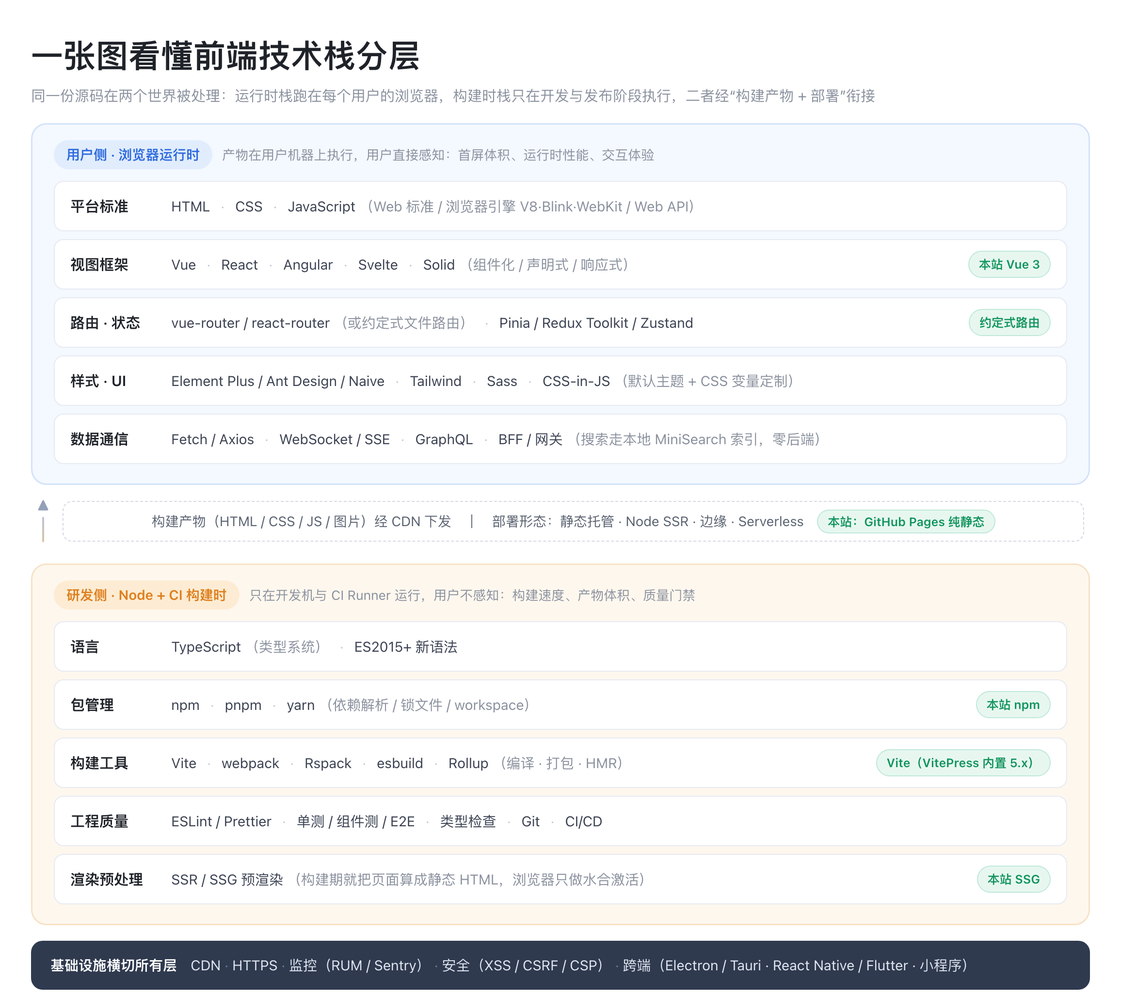
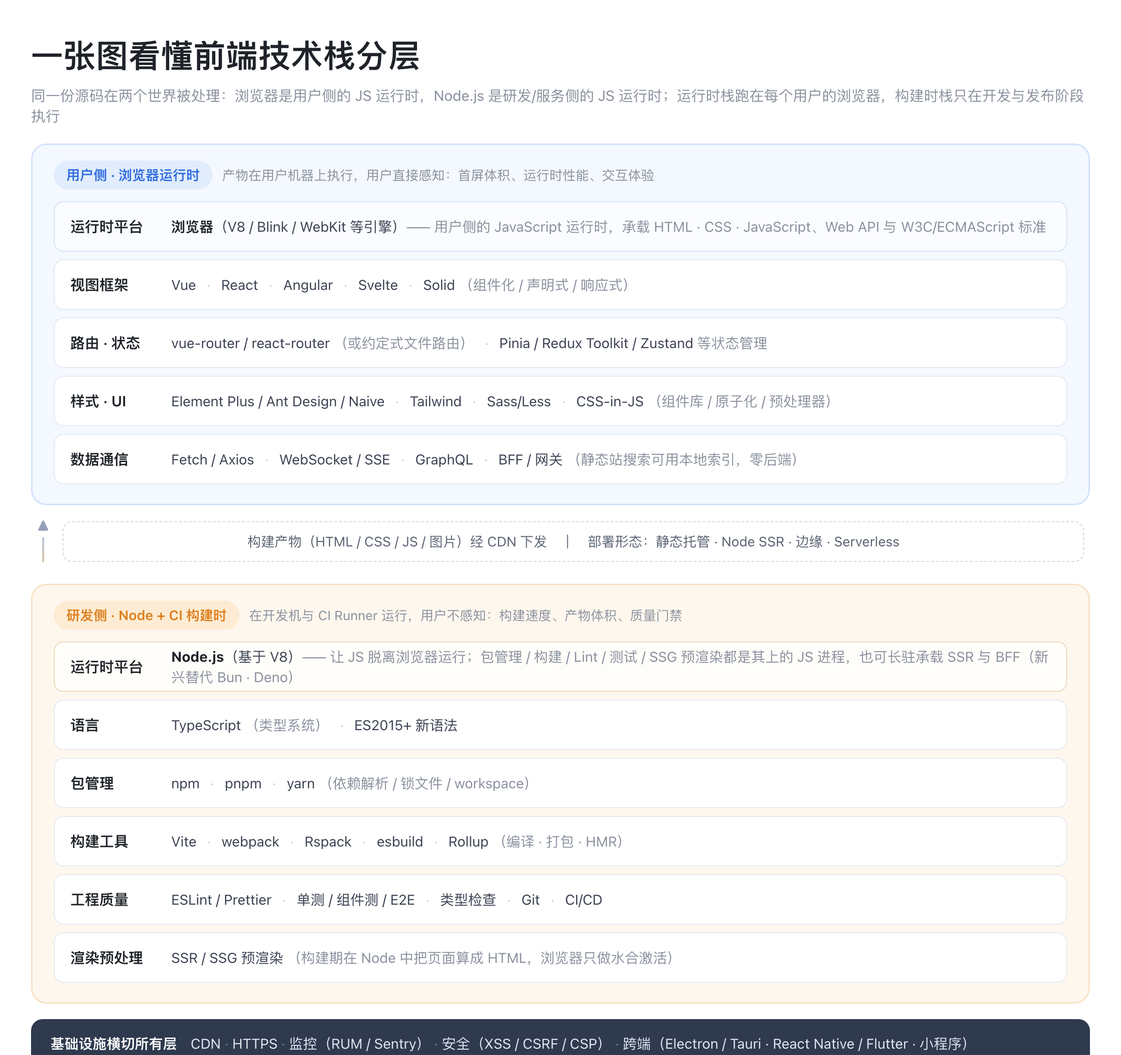
前端总览：去站点化改为纯通用技术栈总览，补齐 Node.js 运行时层
- 删除「本站 / 首个实践落点」列及全部 VitePress 专项强调与相对链接
- 分层图与总表新增「运行时平台」层：浏览器(用户侧) vs Node.js(研发/服务侧)
- 第三节新增 Node.js 双重身份定位（工具链底座 / 服务端 JS 运行时）
- 第八节由本站目录规划改为通用前端学习路径

diff --git a/docs/frontend/index.md b/docs/frontend/index.md
@@ -1,12 +1,12 @@
 # 前端技术栈全景总览
 
-> 本篇是「前端」目录的**第一张地图与第一部分**，回答四个问题：一个现代前端应用由哪些层组成、每层解决什么问题、主流选择有哪些、本站如何取舍。先建立分层心智模型，再按图索骥进入各专题知识树——本目录第一棵下钻的树是 [VitePress](./vitepress/01-ssg)。
+> 本篇是「前端」目录的**第一张地图**，回答四个问题：一个现代前端应用由哪些层组成、每层解决什么问题、主流选择有哪些、各自适用什么场景。先建立分层心智模型，再按图索骥进入各分层专题。
 >
-> 阅读建议：零基础同学先读「一、二、三」建立全局观，再进 VitePress 01；有经验的同学可直接看「四、五」的选型对比与「八」的目录规划。
+> 阅读建议：零基础同学先读「一、二、三」建立全局观，再挑一个视图框架深入；有经验的同学可直接看「四、五」的选型对比与「八」的学习路径。
 
 **前置依赖**：无，本篇本身就是前端部分的起点。
 
-**事实基线**：本篇涉及外部生态处只做"分层与职责"层面的描述、不逐一钉版本；凡标注"本站采用"的，均以本仓库 `package.json` 实际安装为准——VitePress `^1.6.4`（内置 Vue 3 与 Vite 5 线）、包管理器 npm、纯静态部署到 GitHub Pages。
+**事实基线**：本篇只做"分层与职责"层面的描述，工具会换、层次与要解决的问题长期稳定，因此除必要处外不逐一钉版本。
 
 ---
 
@@ -16,30 +16,33 @@
 
 ![前端技术栈分层：浏览器运行时栈与 Node + CI 构建时栈两大世界](./images/frontend-stack.png)
 
-记住这张图的关键切分：**框架、路由、状态、UI、通信是"运行时栈"；TS、包管理、构建、Lint、测试、预渲染是"构建时栈"**。很多困惑（为什么 VitePress 不需要服务器、为什么 Shiki 高亮零运行时开销）本质都是"某件事到底发生在哪个世界"。
+记住这张图的关键切分：**框架、路由、状态、UI、通信是"运行时栈"；Node.js 运行时、TS、包管理、构建、Lint、测试、预渲染是"构建时栈"**。很多困惑（为什么 SSG 站点不需要业务服务器、为什么语法高亮可以零运行时开销、为什么装工具前必须先装 Node.js）本质都是"某件事到底发生在哪个世界"。
 
-## 二、分层总表：每层解决什么问题、主流选择、本站落点
+## 二、分层总表：每层解决什么问题、主流选择有哪些
 
-| 层 | 解决的核心问题 | 主流选择（代表性） | 本站 / 首个实践落点 |
-| --- | --- | --- | --- |
-| 平台与标准 | 页面的三种原生语言与运行环境 | HTML/CSS/JS、ECMAScript(TC39)、W3C/WHATWG、V8/Blink/WebKit | 所有页面最终都回归这三种语言 |
-| 语言 | 大型项目的类型安全与新语法 | TypeScript、ES2015+ 语法 | VitePress 配置用 TS（`.mts`） |
-| 视图框架 | 组件化、声明式渲染、响应式更新 | Vue、React、Angular、Svelte、Solid | **Vue 3**（VitePress 底座） |
-| 路由 | URL 与页面/组件的映射 | vue-router、react-router、约定式文件路由 | **约定式路由**（文件路径即 URL），见 [02](./vitepress/02-routing) |
-| 状态管理 | 跨组件共享状态、服务端数据缓存 | Pinia、Redux Toolkit、Zustand、Jotai、MobX、TanStack Query | 内容型静态站暂不需要全局状态 |
-| 样式与 UI | 设计系统、响应式、主题 | 原生 CSS、Sass/Less、Tailwind、CSS-in-JS、Element Plus/Ant Design/Naive | 默认主题 + **CSS 变量定制**，见 [03](./vitepress/03-default-theme) |
-| 数据通信 | 取数、提交、实时推送 | Fetch、Axios、WebSocket、SSE、GraphQL、tRPC、BFF | 无后端取数；搜索走本地索引 |
-| 搜索 | 站内检索 | 本地索引（MiniSearch）、Algolia DocSearch、自建后端 | **本地 MiniSearch**（零后端），见 [03](./vitepress/03-default-theme) |
-| 构建工具 | dev server、编译、打包、HMR、资源处理 | Vite、webpack、Rspack、esbuild、Rollup、Parcel | **Vite**（VitePress 内置 5.x 线），机制见 [04](./vitepress/04-build) |
-| 包管理 | 依赖解析、锁版本、磁盘复用 | npm、pnpm、yarn | **npm**（含 `package-lock.json`） |
-| 渲染范式 | 首屏速度、SEO、交互的权衡 | CSR、SSR、SSG、ISR、MPA、同构、岛屿架构 | **SSG**（构建期预渲染），见 [01](./vitepress/01-ssg) |
-| 工程质量 | 风格统一、正确性、防回归 | ESLint、Prettier、Stylelint、Vitest/Jest、Playwright/Cypress、husky | 依赖 VitePress 构建期 dead link 检查兜底 |
-| 部署与基础设施 | 上线、分发、容灾 | CDN、GitHub Pages/Vercel/Netlify、Nginx、Node SSR、容器/K8s、Serverless | **GitHub Pages + Actions**，见 [05](./vitepress/05-deploy) |
-| 性能与监控 | 度量、告警、持续优化 | Lighthouse、Core Web Vitals、Sentry、自建 RUM/APM | 静态站天然占优，治理见 [06](./vitepress/06-engineering) |
-| 安全 | 防注入、越权、传输安全 | XSS 防护、CSRF Token、CSP、CORS、HTTPS、依赖审计 | Pages 自动 HTTPS；评论等动态能力需另行评估 |
-| 跨端 | 一套能力触达多端 | Electron/Tauri（桌面）、React Native/Flutter、小程序/uni-app（移动端） | 暂未涉及 |
+| 层 | 解决的核心问题 | 主流选择（代表性） |
+| --- | --- | --- |
+| 平台与标准 | 页面的三种原生语言与用户侧运行环境 | HTML/CSS/JS、ECMAScript(TC39)、W3C/WHATWG、浏览器引擎 V8/Blink/WebKit |
+| 语言 | 大型项目的类型安全与新语法 | TypeScript、ES2015+ 语法 |
+| 运行时（研发/服务侧） | 让 JavaScript 脱离浏览器、在机器上执行，承载整条工具链与服务端程序 | **Node.js**（基于 V8，事实标准）、Bun、Deno |
+| 视图框架 | 组件化、声明式渲染、响应式更新 | Vue、React、Angular、Svelte、Solid |
+| 路由 | URL 与页面/组件的映射 | vue-router、react-router、约定式文件路由 |
+| 状态管理 | 跨组件共享状态、服务端数据缓存 | Pinia、Redux Toolkit、Zustand、Jotai、MobX、TanStack Query |
+| 样式与 UI | 设计系统、响应式、主题 | 原生 CSS、Sass/Less、Tailwind、CSS-in-JS、Element Plus/Ant Design/Naive |
+| 数据通信 | 取数、提交、实时推送 | Fetch、Axios、WebSocket、SSE、GraphQL、tRPC、BFF |
+| 搜索 | 站内检索 | 本地索引（MiniSearch）、Algolia DocSearch、自建后端 |
+| 包管理 | 依赖解析、锁版本、磁盘复用 | npm、pnpm、yarn |
+| 构建工具 | dev server、编译、打包、HMR、资源处理 | Vite、webpack、Rspack、esbuild、Rollup、Parcel |
+| 渲染范式 | 首屏速度、SEO、交互的权衡 | CSR、SSR、SSG、ISR、MPA、同构、岛屿架构 |
+| 工程质量 | 风格统一、正确性、防回归 | ESLint、Prettier、Stylelint、Vitest/Jest、Playwright/Cypress、husky |
+| 部署与基础设施 | 上线、分发、容灾 | CDN、GitHub Pages/Vercel/Netlify、Nginx、Node SSR、容器/K8s、Serverless |
+| 性能与监控 | 度量、告警、持续优化 | Lighthouse、Core Web Vitals、Sentry、自建 RUM/APM |
+| 安全 | 防注入、越权、传输安全 | XSS 防护、CSRF Token、CSP、CORS、HTTPS、依赖审计 |
+| 跨端 | 一套能力触达多端 | Electron/Tauri（桌面）、React Native/Flutter、小程序/uni-app（移动端） |
 
 读这张表的方法：**先看"解决什么问题"，再看"主流选择"**。工具会换，层次与要解决的问题长期稳定。
+
+注意表里两个"运行时"的对称关系：**浏览器是用户侧的 JavaScript 运行时，Node.js 是研发侧（也可以是服务侧）的 JavaScript 运行时**，二者都用 V8 家族引擎、都跑 ECMAScript，这也是前后端"同构"成立的基础。
 
 ## 三、两条主线：运行时栈 vs 构建时栈
 
@@ -47,16 +50,24 @@
 
 | 对比项 | 浏览器运行时栈 | Node + CI 构建时栈 |
 | --- | --- | --- |
-| 在哪里跑 | 每个用户的浏览器 | 开发者机器、CI Runner |
-| 典型成员 | 框架、路由、状态、UI 库、通信、Web API | TypeScript、包管理器、Vite/webpack、Lint、测试、SSR/SSG |
+| 在哪里跑 | 每个用户的浏览器（JS 运行时） | 开发者机器、CI Runner 上的 Node.js 进程（JS 运行时） |
+| 典型成员 | 框架、路由、状态、UI 库、通信、Web API | Node.js 底座、TypeScript、包管理器、Vite/webpack、Lint、测试、SSR/SSG |
 | 关心什么 | 首屏体积、运行时性能、兼容、交互体验 | 构建速度、产物体积、可复现、质量门禁 |
 | 用户是否感知 | 直接感知（下载并执行的就是它） | 不感知，只拿到它产出的静态文件 |
 | 出错表现 | 白屏、卡顿、hydration mismatch | 构建失败、CI 红灯、产物异常 |
 
-两者的**交界处是同构渲染**：VitePress 用同一批 Vue 组件，在构建时（Node）跑 server bundle 预渲染出 HTML，再在浏览器（用户）跑 client bundle 水合——这条"两阶段管线"是理解 [04 构建原理](./vitepress/04-build)的主线。
+两者的**交界处是同构渲染**：同一批组件在构建时（Node）跑 server bundle 预渲染出 HTML，再在浏览器（用户）跑 client bundle 水合激活，Nuxt、Next.js 等元框架的 SSR/SSG 都是这条"两阶段管线"。
+
+### Node.js 在这张图里的位置
+
+Node.js 容易被漏掉，是因为它不是与 Vite、webpack 并列的"某个工具"，而是**承载这些工具的运行时平台**——与"浏览器"对等的一层：
+
+- **身份一：前端工具链的运行时底座（构建时）。** npm/pnpm/yarn 本身是 Node 程序；Vite、webpack、Rollup、ESLint、Prettier、Vitest/Jest、SSG 预渲染、dev server 全都跑在 Node 进程里。这也是为什么本机必须先安装 Node.js 才能 `npm install`、跑构建——没有这个底座，上面的工具链一行都跑不起来。
+- **身份二：服务端 JavaScript 运行时（运行时）。** 需要服务器的场景里，Node 可以长驻承载 SSR 服务、BFF、API 网关（见第六、七节中"需要 Node 长驻"的部署形态）。此时它脱离了"前端工程化"语境，成为后端技术选型。
+- 因为同样基于 V8、同样说 JavaScript，同一份组件代码才能在 Node（渲染成 HTML）和浏览器（水合交互）两边运行；Bun、Deno 是这个层级上的新兴替代运行时。
 
 ::: info
-**一句话**：凡是"每个用户都要重复付出的成本"（渲染、高亮、建索引），尽量前移到构建时只做一次；凡是"必须因人而异/实时"的（登录态、交互、实时数据），才留在运行时。这正是本站选择 SSG 的根本原因。
+**一句话**：凡是"每个用户都要重复付出的成本"（渲染、高亮、建索引），尽量前移到构建时只做一次；凡是"必须因人而异/实时"的（登录态、交互、实时数据），才留在运行时。这也是内容型站点普遍选择 SSG 的根本原因。
 :::
 
 ## 四、视图框架层：最重的一次技术选型
@@ -65,27 +76,27 @@
 
 | 框架 | 模板/UI 写法 | 响应式与渲染机制 | 生态与适用 |
 | --- | --- | --- | --- |
-| Vue | SFC（template + script + style） | 基于 Proxy 的细粒度响应式 + 虚拟 DOM，编译期做静态优化 | 渐进式、中文社区强、文档/中后台广；本站底座 |
+| Vue | SFC（template + script + style） | 基于 Proxy 的细粒度响应式 + 虚拟 DOM，编译期做静态优化 | 渐进式、中文社区强、文档/中后台应用广 |
 | React | JSX（一切皆 JS） | 不可变状态 + 重新渲染，运行时调度（Concurrent） | 生态最大、招聘面广、大型复杂应用 |
 | Angular | 模板 + 依赖注入 | 框架大而全（路由/表单/CLI 内置），响应式用 RxJS | 强约束、企业级大团队、TypeScript 优先 |
 | Svelte | `.svelte` 单文件 | 编译期把响应式编译成命令式 DOM 操作，**无运行时库** | 极小产物、低运行时开销、个人/中小型项目 |
 | Solid | JSX | 细粒度信号（Signal），不做整体 VDOM diff | 追求极致运行时性能、信号范式 |
 
-选型维度按权重通常是：**团队既有技术栈 > 长期维护与生态 > 招聘供给 > 运行时性能/体积**。文档/内容站这类"框架由 SSG 替你选好"的场景，跟着 VitePress（Vue）或 Docusaurus（React）走即可，不必单独纠结框架。
+选型维度按权重通常是：**团队既有技术栈 > 长期维护与生态 > 招聘供给 > 运行时性能/体积**。文档/内容站这类"框架由 SSG/元框架替你选好"的场景，跟着所选方案的技术栈走即可（如 Vue 生态的 VitePress/Nuxt、React 生态的 Docusaurus/Next.js），不必单独纠结框架。
 
-**元框架（Meta-framework）** 在视图框架之上再封装"路由 + 数据获取 + 多种渲染范式 + 部署约定"：Vue 生态的 Nuxt、React 生态的 Next.js、Svelte 生态的 SvelteKit，以及内容站取向的 Astro。VitePress 可以理解为"专注内容型 SSG 的轻量元框架"——它不做通用应用的那些能力（鉴权、服务端数据聚合），刻意收敛到文档场景。通用应用与内容站的边界见 [01 的 When/When not](./vitepress/01-ssg)。
+**元框架（Meta-framework）** 在视图框架之上再封装"路由 + 数据获取 + 多种渲染范式 + 部署约定"：Vue 生态的 Nuxt、React 生态的 Next.js、Svelte 生态的 SvelteKit，以及内容站取向的 Astro。VitePress 则属于"专注内容型 SSG 的轻量元框架"——不做通用应用的那些能力（鉴权、服务端数据聚合），刻意收敛到文档场景。
 
 ## 五、构建与工程化层：为什么需要"构建"这一步
 
-浏览器不能直接、也不应该直接消费我们写的工程化源码，构建环节负责把"对人友好的源码"变成"对浏览器与网络友好的产物"。
+浏览器不能直接、也不应该直接消费我们写的工程化源码，构建环节负责把"对人友好的源码"变成"对浏览器与网络友好的产物"。这一整层工具（包管理器、构建器、Lint、测试、预渲染）都运行在 Node.js 这个底座之上（定位见第三节）。
 
 - **为什么需要构建**：模块化打包（成百上千模块合成少量文件）、TS/JSX/Vue 编译、样式与图片等资源处理、按目标浏览器降级语法、tree-shaking、压缩与代码分割、开发期热更新（HMR）。
 - **打包工具演进**：webpack（插件生态最全、配置复杂）→ esbuild（用 Go 写、极速、主打转译）→ **Vite**（开发期基于浏览器原生 ESM 按需编译、生产用 Rollup，冷启动快）→ Rspack（用 Rust 写、兼容 webpack 生态）/Turbopack 等。主线是"用 Go/Rust 等系统语言重写性能瓶颈 + 开发期利用原生 ESM"。
 - **包管理器**：npm/yarn/pnpm 都管依赖与锁文件；pnpm 用硬链接与严格的非扁平 `node_modules` 节省磁盘并避免幽灵依赖，monorepo 体验更好。
 - **质量门禁**：ESLint 管代码正确性与风格、Prettier 管格式、`tsc` 管类型、单测/组件测/E2E 管行为，统一在 CI 上作为合入门禁。
-- **Monorepo**：多个包放一个仓库共享依赖与工具链，配合 pnpm workspace、Nx、Turborepo 做任务编排与增量缓存；本仓库是单包项目，用不到这层。
+- **Monorepo**：多个包放一个仓库共享依赖与工具链，配合 pnpm workspace、Nx、Turborepo 做任务编排与增量缓存；单包小项目用不到这层。
 
-本站的构建被 VitePress 完全封装：开发 `npm run docs:dev`、发布 `npm run docs:build`，产物在 `docs/.vitepress/dist`。配置如何透传给底层 Vite，见 [02](./vitepress/02-routing)；构建内部到底做了什么，见 [04](./vitepress/04-build)。
+实际项目里这些能力通常被脚手架或元框架封装为少量命令（开发 `dev`、构建 `build`、预览 `preview`），配置再按需透传给底层打包工具。理解封装之下 Vite/webpack 在做什么、跑在什么运行时上，才能在构建报错、产物异常时定位到正确的层。
 
 ## 六、数据通信与服务端协作
 
@@ -99,44 +110,45 @@
 | GraphQL | 客户端按需取字段 | 多端、字段聚合复杂的中大型应用 |
 | BFF / 网关 | 专为前端聚合的后端层 | 一个页面需要多个后端服务拼装、做鉴权与裁剪 |
 
-协作约定上：接口契约用 OpenAPI/Swagger 对齐，跨域靠 CORS，鉴权常用 Cookie + 会话或 Token（JWT 等），前后端职责边界由 BFF 收敛。本站是纯静态内容站，没有这层实时数据；搜索这类看似"需要后端"的能力也用构建期索引 + 浏览器本地检索替代（见 [03](./vitepress/03-default-theme)），需要评论/表单时再接第三方 API 或 Serverless。
+协作约定上：接口契约用 OpenAPI/Swagger 对齐，跨域靠 CORS，鉴权常用 Cookie + 会话或 Token（JWT 等），前后端职责边界由 BFF 收敛。纯静态内容站通常没有这层实时数据；搜索这类看似"需要后端"的能力也可以用构建期索引 + 浏览器本地检索替代，需要评论/表单时再接第三方 API 或 Serverless。
 
 ## 七、渲染范式与部署形态：决定首屏、SEO 与成本
 
-把"页面 HTML 在什么时刻生成"与"部署在哪"对应起来，就串起了整个架构选型（深入对比见 [01](./vitepress/01-ssg) 与 [05](./vitepress/05-deploy)）：
+把"页面 HTML 在什么时刻生成"与"部署在哪"对应起来，就串起了整个架构选型：
 
 | 渲染范式 | HTML 生成时刻 | 首屏/SEO | 服务器 | 部署形态 |
 | --- | --- | --- | --- | --- |
 | CSR（客户端渲染） | 浏览器执行 JS 后 | 白屏、SEO 弱 | 仅静态托管 | 纯 CDN |
 | SSR（服务端渲染） | 每次请求实时渲染 | 快、好 | 需要 Node 长驻 | Node 服务 + 容器/PM2 |
-| SSG（本站） | 构建发布时预渲染 | 极快、好 | 不需要 | **纯静态 CDN / GitHub Pages** |
+| SSG | 构建发布时预渲染 | 极快、好 | 不需要 | 纯静态 CDN / GitHub Pages 等托管 |
 | ISR（增量静态再生成） | 构建 + 按需再生成 | 快、好 | 需要少量服务端能力 | 支持 ISR 的托管平台 |
 | MPA（传统多页） | 服务端套模板 | 取决于后端 | 需要应用服务器 | Nginx + 应用 + 数据库 |
 
 选型本质是按"读写比与时效性"匹配：读多写少、发布才变的内容（文档/博客/手册）→ SSG；强登录态/千人千面 → SSR/CSR；秒级实时数据 → CSR + 实时通信。
 
-## 八、前端知识在本站如何展开（目录规划）
+## 八、前端知识体系如何展开（学习路径）
 
-本目录采用"**总览 + 专题知识树**"的组织方式：先有这张全景地图，再对图中的每一层/每个高频工具各沉淀一棵编号知识树。
+建议按"**总览 → 地基 → 主干 → 工程化 → 架构与专项**"的顺序展开：先有这张全景地图，再逐层下钻。
 
-| 全景中的层 | 对应知识树 | 状态 |
+| 全景中的层 | 对应知识模块 | 建议阶段 |
 | --- | --- | --- |
-| 总览（本篇） | 前端技术栈全景总览 | 已完成 |
-| 渲染范式 + 构建工具 + 部署的内容站交叉点 | [VitePress 知识树 01–06](./vitepress/01-ssg) | 已完成 |
-| 语言与标准（JS/TS/浏览器原理） | 规划中 | 待沉淀 |
-| 视图框架（Vue 深入） | 规划中 | 待沉淀 |
-| 工程化（Vite/TS/包管理/测试/Monorepo） | 规划中 | 待沉淀 |
-| 性能、安全与跨端 | 规划中 | 待沉淀 |
+| 平台与标准 + 语言 | JavaScript、TypeScript、浏览器原理（DOM/事件循环/渲染管线） | 地基：最先补 |
+| 运行时（两侧） | 浏览器机制 + Node.js（工具链底座 / 服务端 JS） | 地基：与上同步 |
+| 视图框架 + 路由 + 状态 | Vue 或 React 择一深入、客户端路由、Pinia/Redux 等 | 主干：选型后深耕 |
+| 数据通信 | HTTP/REST、WebSocket/SSE、GraphQL、BFF 协作 | 主干：与框架并行 |
+| 工程化 | 包管理、Vite/webpack、Lint/测试、Monorepo、CI/CD | 提效：做过项目后系统补 |
+| 渲染范式 + 部署 | CSR/SSR/SSG/ISR、CDN、托管平台、容器/Serverless | 架构：建立全局权衡观 |
+| 性能 / 安全 / 跨端 | Core Web Vitals、XSS/CSRF/CSP、Electron/RN/小程序 | 专项：按需深入 |
 
-"规划中"只表示后续可下钻的方向，不影响当前内容；每棵新树都会沿用与 VitePress 相同的结构：定位 → 配置/使用 → 原理 → 部署/工程 → 实战场景 → 分频面试题。
+每个模块都可以沿用统一结构消化：定位（解决什么问题）→ 使用/配置 → 原理 → 工程与部署 → 实战场景 → 高频面试题。
 
 ## 九、高频面试：建立全景时常问的 9 题
 
 1. **[高频] 全景题：从输入 URL 到页面可交互，前端各层如何协作？** DNS/网络取到 HTML → 解析构建 DOM/CSSOM → 下载并执行 JS bundle（构建时已由 Vite/webpack 打包、TS/Vue 已编译）→ 框架创建组件、路由匹配、取数（Fetch/BFF）→ 渲染并绑定事件（CSR 水合/SSG 直接激活）→ 异步资源与懒加载补齐。能按"网络 → 浏览器渲染 → 运行时框架 → 数据"四段说清即可。
-2. **[高频] 辨析题：CSR/SSR/SSG 的区别与选型？** 区别在 HTML 生成时刻：CSR 在浏览器、SSR 每请求在服务器、SSG 构建时预渲染成文件。读多写少、发布才变的内容站选 SSG（免服务器、首屏快、SEO 好）；强登录态选 SSR/CSR。详见 [01](./vitepress/01-ssg)。
-3. **[高频] 原理题：为什么需要构建工具，Vite 为什么快？** 浏览器无法直接消费 TS/Vue/模块化与大量资源，构建负责编译、打包、tree-shaking、压缩与 HMR。Vite 开发期用浏览器原生 ESM 按需编译、用 esbuild 预构建依赖，冷启动不随项目变大变慢；生产用 Rollup 打包。详见 [01](./vitepress/01-ssg)/[04](./vitepress/04-build)。
+2. **[高频] 辨析题：CSR/SSR/SSG 的区别与选型？** 区别在 HTML 生成时刻：CSR 在浏览器、SSR 每请求在服务器、SSG 构建时预渲染成文件。读多写少、发布才变的内容站选 SSG（免服务器、首屏快、SEO 好）；强登录态选 SSR/CSR。
+3. **[高频] 原理题：为什么需要构建工具，Vite 为什么快，Node.js 在其中是什么角色？** 浏览器无法直接消费 TS/Vue/模块化与大量资源，构建负责编译、打包、tree-shaking、压缩与 HMR。Vite 开发期用浏览器原生 ESM 按需编译、用 esbuild 预构建依赖，冷启动不随项目变大变慢；生产用 Rollup 打包。这一整套工具链（npm、Vite、ESLint、测试、预渲染）都是运行在 **Node.js** 上的程序，Node 是构建时的 JS 运行时底座，不是与构建工具并列的工具。
 4. **[高频] 辨析题：Vue 和 React 的核心差异？** Vue 用 SFC 模板 + Proxy 细粒度响应式，编译期做静态提升与补丁标记；React 用 JSX + 不可变状态驱动重渲染，靠运行时调度优化。写法、心智模型与生态不同，没有绝对优劣，按团队与场景选。
-5. **[高频] 概念题：客户端路由 hash 和 history 模式区别？** hash 模式靠 `#` 后内容变化，不发请求、兼容性好但 URL 带 `#`；history 模式用 History API 得到干净 URL，但需要服务端/托管把未知路径回退到入口 HTML，否则刷新 404。VitePress 这类静态站用预生成的 HTML 文件直接承载每条路由。
+5. **[高频] 概念题：客户端路由 hash 和 history 模式区别？** hash 模式靠 `#` 后内容变化，不发请求、兼容性好但 URL 带 `#`；history 模式用 History API 得到干净 URL，但需要服务端/托管把未知路径回退到入口 HTML，否则刷新 404。SSG 站点则用预生成的 HTML 文件直接承载每条路由。
 6. **[高频] 原理题：状态管理解决什么问题，状态何时该提升？** 解决跨组件/跨页面共享与状态一致性，避免层层透传 props。状态优先局部化（谁用谁持有），当多个无亲缘关系组件需要同一份可变数据、或需要持久化/调试时再提升到 Pinia/Redux；服务端数据缓存优先用 TanStack Query 这类专门工具而非塞进全局 store。
 7. **[中频] 工程题：Monorepo 和多仓库怎么选？** Monorepo 便于多包共享依赖、统一工具链与原子提交、配合 workspace 做增量构建，适合强相关的多个包/组件库；多仓库隔离强、独立发布权限清晰，适合边界稳定、团队独立的产品。不要为"看起来先进"而上 Monorepo。
 8. **[高频] 性能题：Core Web Vitals 是哪三个，怎么分层优化？** LCP（最大内容绘制，看首屏主体）、INP（交互到下一次绘制，看响应）、CLS（累积布局偏移，看稳定）。分层：构建期减小体积/路由分包/图片优化，传输层用 CDN 与压缩，运行时减少长任务与渲染次数，必要时用 SSG/预渲染直接消除首屏等待。
